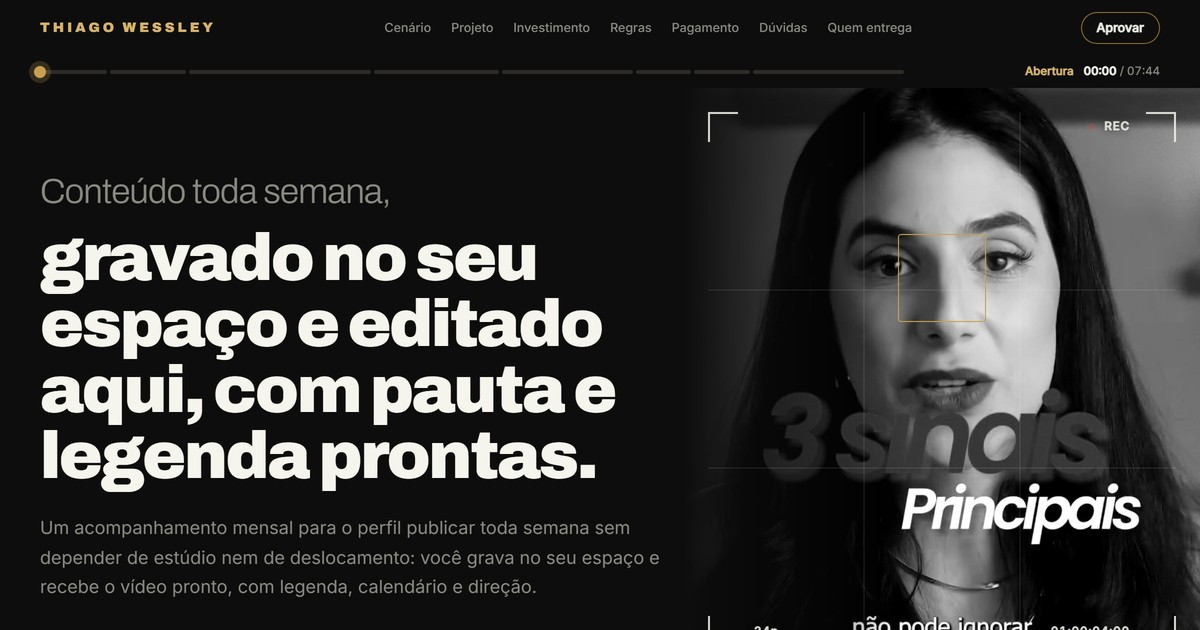
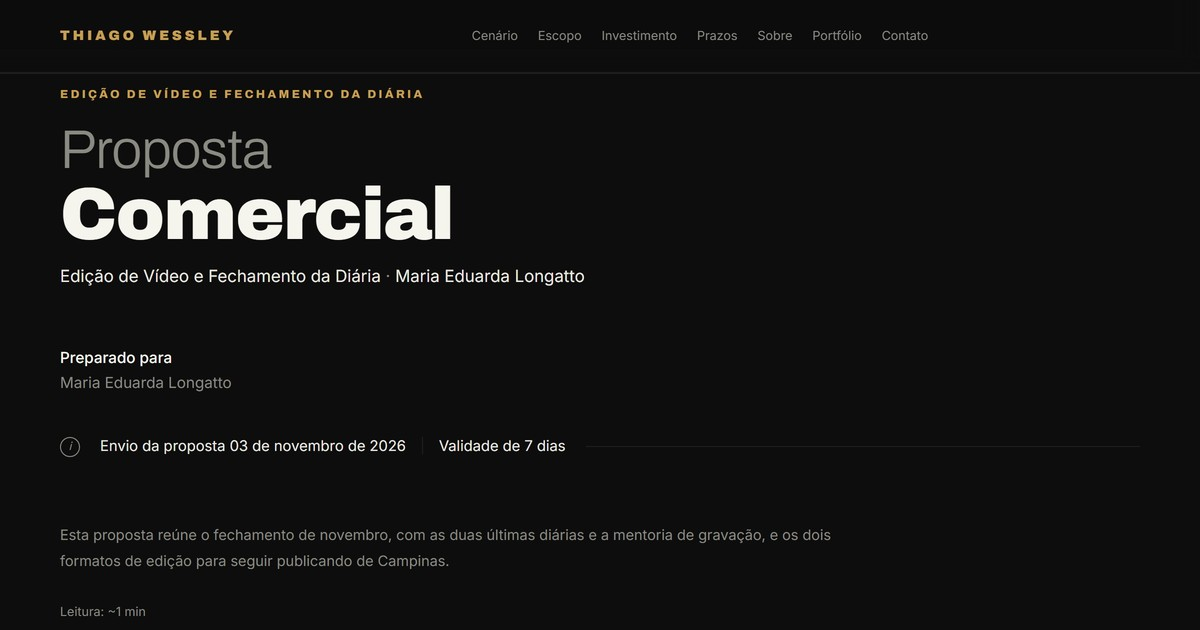
Duda: proposta de volta ao molde padrao

diff --git a/src/propostas/duda-acompanhamento-conteudo.ts b/src/propostas/duda-acompanhamento-conteudo.ts
@@ -3,50 +3,7 @@ import { SOBRE_PADRAO, encerramentoPadrao } from '../lib/copy-padrao'
 
 export const dudaAcompanhamentoConteudo: PropostaData = {
   slug: 'duda-acompanhamento-conteudo',
-  estilo: 'dossie',
   ogImagem: '/og/duda-acompanhamento.jpg',
-  dossie: {
-    retrato: { src: '/img/portfolio/camila-oliveira.jpg', alt: 'Nutricionista falando direto pra câmera em Reels educativo', largura: 720, altura: 1280, foco: '50% 24%', mira: ['50%', '31%'] },
-    galeria: [
-      { src: '/img/portfolio/natalia-merheb.jpg', alt: 'Especialista em vídeo educativo sobre saúde', largura: 405, altura: 720, foco: '50% 26%' },
-      { src: '/img/portfolio/patricia-gurgel.jpg', alt: 'Especialista em vídeo de depoimento', largura: 405, altura: 720, foco: '50% 30%' },
-    ],
-    titulo: { fino: 'Encerrar bem por aqui,', grosso: 'e seguir publicando com a sua gravação e a minha edição.' },
-    lede: 'Um fechamento em novembro, com as duas últimas diárias e a mentoria para você gravar sozinha, mais dois formatos de edição para seguir de Campinas, mês a mês, sem fidelidade.',
-    documento: 'Proposta comercial',
-    duracao: 'um fechamento, depois todo mês',
-    base: { provas: [], produtos: [] },
-    linha: {
-      titulo: 'Do fechamento à rotina nova',
-      nota: 'Novembro concentra a última captação e a mentoria. De dezembro em diante o ciclo é só edição: você grava no seu espaço, envia por link e recebe pronto.',
-      inicio: 'Diárias e mentoria',
-      fim: 'Edição do mês',
-    },
-    marcos: [
-      { dia: 'Novembro', nome: 'Duas diárias' },
-      { dia: 'Novembro', nome: 'Mentoria de gravação' },
-      { dia: 'Dezembro', nome: 'Só edição' },
-      { dia: 'Cada mês', nome: 'Até 10 vídeos' },
-    ],
-    teste: [
-      { etapa: 'Captação', nome: 'Última diária, presencial' },
-      { etapa: 'Mentoria', nome: 'Você aprende a gravar sozinha' },
-      { etapa: 'Envio', nome: 'Por link, direto do celular' },
-      { etapa: 'Edição', nome: 'Corte, ritmo e legenda' },
-      { etapa: 'Publicação', nome: 'No ritmo que você escolher' },
-    ],
-    videos: [
-      { youtubeId: 'V5lMb2SksPs', titulo: 'Exemplo de edição: Maria Eduarda', poster: '/img/portfolio/camila-oliveira.jpg' },
-    ],
-    paineis: [
-      { tipo: 'teste', titulo: 'Como o fechamento roda', legenda: 'Das duas últimas diárias à mentoria de gravação.' },
-      null,
-      { tipo: 'videos', titulo: 'Padrão de edição', legenda: 'Exemplo de vídeo editado no formato Reels.' },
-    ],
-    secoesExtras: ['sobre'],
-    fecho: 'Uma última diária, a mentoria, e o vídeo seguindo pronto todo mês.',
-    depois: 'Quando passar de 10 vídeos no mês, o próximo degrau é a edição avançada.',
-  },
   cliente: 'Maria Eduarda Longatto',
   segmento: 'Nutricionista, saúde da mulher e saúde capilar',
   servico: 'Edição de Vídeo e Fechamento da Diária',
